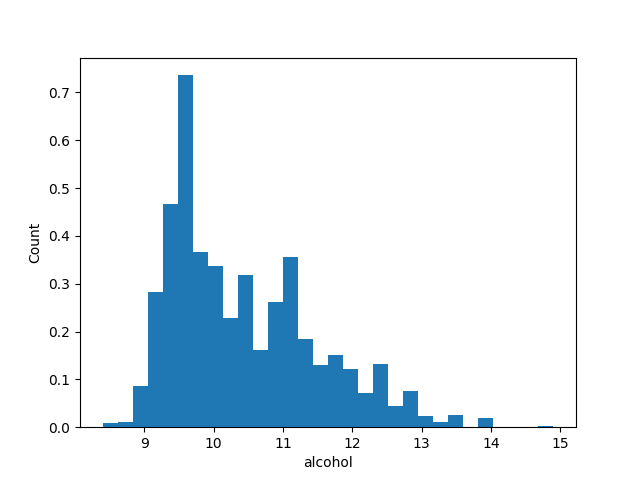
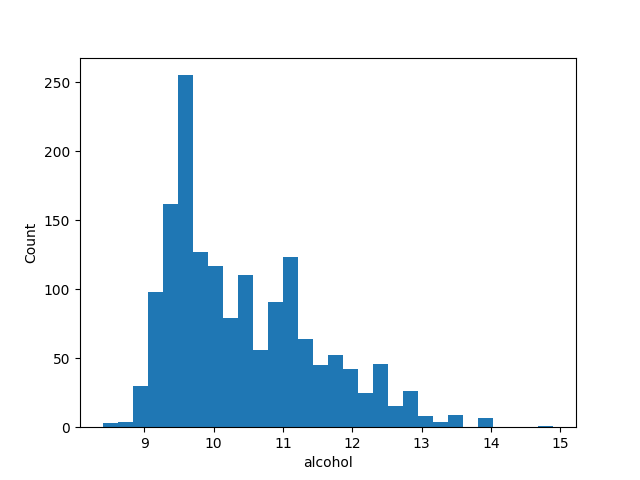
table allignments

diff --git a/templates/wine_quality.html b/templates/wine_quality.html
@@ -122,7 +122,9 @@
       </div>
     </div>
 
-    <div class="col-md-8 text-center">
+    <div class="col-md-1 sidenav"></div>
+
+    <div class="col-md-6 text-center">
       <h1>{{title}}</h1>
       <br />
       {% if value1 %}
@@ -148,20 +150,20 @@
       </div>
       <div class="moja">
         <ul>
-          <table class="table table-bordered table-striped">
+          <table class="table table-bordered table-striped table-hover">
             <thead>
               <tr>
-                <th>Class</th>
-                <th>Precision</th>
-                <th>Recall</th>
-                <th>f1-score</th>
-                <th>Support</th>
+                <th style="text-align: center">Class</th>
+                <th style="text-align: center">Precision</th>
+                <th style="text-align: center">Recall</th>
+                <th style="text-align: center">f1-score</th>
+                <th style="text-align: center">Support</th>
               </tr>
             </thead>
             <tbody>
               {% for table in tables %}
-              <tr>
-                <td>{{table['class']}}</td>
+              <tr style="text-align: right">
+                <td style="text-align: left">{{table['class']}}</td>
                 <td>{{table['precision']}}</td>
                 <td>{{table['recall']}}</td>
                 <td>{{table['f1-score']}}</td>

diff --git a/templates/table.html b/templates/table.html
@@ -160,7 +160,8 @@
       {% else %} {% endif %} {% if switch != 2 %}
       <div class="moja">
         <ul>
-          <table class="table table-bordered table-striped">
+          <div class="table-responsive">
+          <table class="table table-bordered table-striped table-hover">
             <thead>
               <tr>
                 {% if switch == 0 %}
@@ -228,6 +229,7 @@
               {% endfor %}
             </tbody>
           </table>
+           </div>
         </ul>
       </div>
     </div>

diff --git a/reg_lin_gra_des.py b/reg_lin_gra_des.py
@@ -21,13 +21,11 @@ x_scaled = np.c_[np.ones(x_scaled.shape[0]), x_scaled]
 # Hiperparametri za gradijentni spust
 alpha = 0.01
 iterations = 2000
-#m = y.size
 np.random.seed(123)
 theta = np.random.rand(2)
 
 # Izračun gradijentnog spusta
-past_thetas, past_costs = gradient_descent(
-    x_scaled, y, theta, iterations, alpha)
+past_thetas, past_costs = gradient_descent(x_scaled, y, theta, iterations, alpha)
 theta = past_thetas[-1]
 
 

diff --git a/reg_lin_methods.py b/reg_lin_methods.py
@@ -22,7 +22,7 @@ def gradient_descent(x, y, theta, iterations, alpha):
 # distribution_quality
 def histogram(x, x_ax):
     fig, ax = plt.subplots()
-    plt.hist(x, density=True, bins=30)
+    plt.hist(x, density=False, bins=30)
     plt.ylabel('Count')
     plt.xlabel(x_ax)
     return fig
